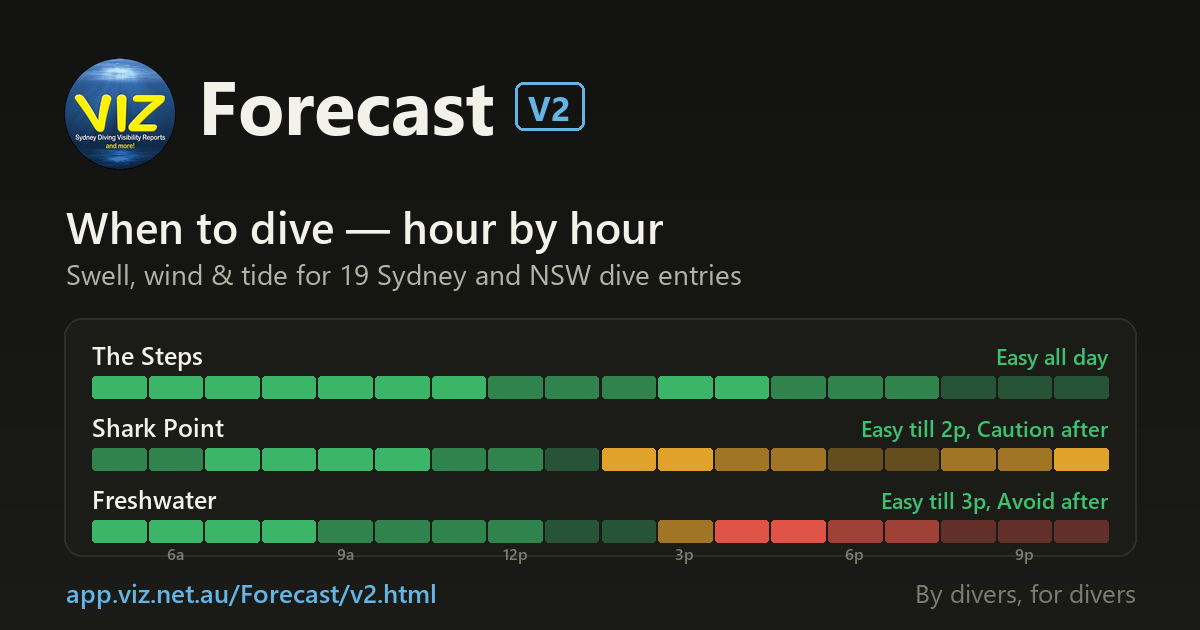
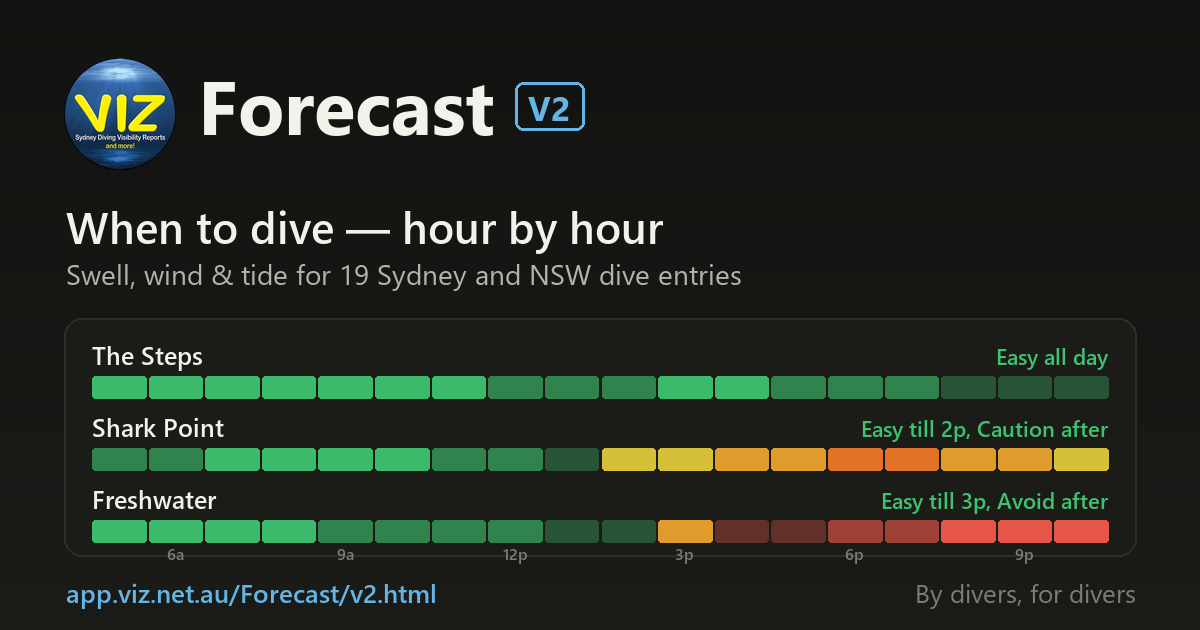
v2: one colour scale, bright green to bright red
Easy fades from vivid to dim green as it worsens, Caution shifts hue yellow ->
amber -> orange, Avoid builds from dim to vivid red: bright green at one end,
bright red at the other, on both themes. Legend follows (same classes). Preview
image redrawn to match; og:image carries ?v=2 so Facebook re-fetches it.

Changed region(s): [[0.4933, 0.6937, 0.925, 0.754], [0.5242, 0.8143, 0.7092, 0.8746], [0.7708, 0.8143, 0.925, 0.8746]]

diff --git a/v2.html b/v2.html
@@ -9,7 +9,7 @@
 <meta property="og:site_name" content="VIZ Forecast">
 <meta property="og:title" content="VIZ Forecast V2 — when to dive, hour by hour">
 <meta property="og:description" content="Hour-by-hour swell, wind and tide for 19 Sydney and NSW dive entries, with a live map of the coast. By divers, for divers.">
-<meta property="og:image" content="https://app.viz.net.au/Forecast/og-cover-v2.png">
+<meta property="og:image" content="https://app.viz.net.au/Forecast/og-cover-v2.png?v=2">
 <meta property="og:image:width" content="1200">
 <meta property="og:image:height" content="630">
 <meta property="og:image:type" content="image/png">
@@ -20,7 +20,7 @@
 <meta name="twitter:card" content="summary_large_image">
 <meta name="twitter:title" content="VIZ Forecast V2 — when to dive, hour by hour">
 <meta name="twitter:description" content="Hour-by-hour swell, wind and tide for 19 Sydney and NSW dive entries, with a live map of the coast. By divers, for divers.">
-<meta name="twitter:image" content="https://app.viz.net.au/Forecast/og-cover-v2.png">
+<meta name="twitter:image" content="https://app.viz.net.au/Forecast/og-cover-v2.png?v=2">
 <meta name="theme-color" content="#f7f7f5">
 <!-- Home-screen icon: the VIZ logo (same files as v1). Its own manifest so an installed
      shortcut opens v2, not v1. -->
@@ -174,19 +174,23 @@
   .cell{flex:1;border-radius:2px;background:var(--none);position:relative}
   .cell.easy{--cellc:var(--easy-cell)} .cell.caution{--cellc:var(--caution-cell)}
   .cell.avoid{--cellc:var(--avoid-cell)}
-  /* Three steps per band, wide apart: light = the safe end of the band, deep = the end
-     nearest the next band down. */
+  /* ONE SCALE, BRIGHT GREEN AT ONE END AND BRIGHT RED AT THE OTHER (owner, 7 Nov 2026).
+     s1 is the best end of a band, s3 the end nearest the next band down:
+       Easy     fades as it worsens:   vivid green -> dim green
+       Caution  shifts in hue:         yellow -> amber -> orange (toward red)
+       Avoid    builds as it worsens:  dim red -> vivid red
+     Caution sits between two dim ends, so brightness cannot carry its order; hue does.
+     Same on both themes. */
   .cell.easy,.cell.caution,.cell.avoid{background:color-mix(in srgb, var(--cellc) 62%, var(--surface))}
-  .cell.s1{background:color-mix(in srgb, var(--cellc) 34%, var(--surface))}
-  .cell.s2{background:color-mix(in srgb, var(--cellc) 62%, var(--surface))}
-  .cell.s3{background:color-mix(in srgb, var(--cellc) 92%, var(--surface))}
-  /* DARK THEME: BRIGHTER = BETTER (owner, 7 Nov 2026). Mixed into a dark surface, the
-     "pale" step comes out the darkest, so a vivid green read as the best Easy when it
-     was the worst. On dark the steps are swapped: s1, the best end of a band, is the
-     most vivid and s3, the end nearest the next band down, the dimmest. Light theme
-     already reads that way (pale on white = lighter = better), so it is unchanged. */
-  :root[data-theme="dark"] .cell.s1{background:color-mix(in srgb, var(--cellc) 92%, var(--surface))}
-  :root[data-theme="dark"] .cell.s3{background:color-mix(in srgb, var(--cellc) 34%, var(--surface))}
+  .cell.easy.s1{background:color-mix(in srgb, var(--easy-cell) 95%, var(--surface))}
+  .cell.easy.s2{background:color-mix(in srgb, var(--easy-cell) 62%, var(--surface))}
+  .cell.easy.s3{background:color-mix(in srgb, var(--easy-cell) 34%, var(--surface))}
+  .cell.caution.s1{background:color-mix(in srgb, #ead23c 90%, var(--surface))}
+  .cell.caution.s2{background:color-mix(in srgb, #f6a92f 90%, var(--surface))}
+  .cell.caution.s3{background:color-mix(in srgb, #f47a2b 92%, var(--surface))}
+  .cell.avoid.s1{background:color-mix(in srgb, var(--avoid-cell) 34%, var(--surface))}
+  .cell.avoid.s2{background:color-mix(in srgb, var(--avoid-cell) 62%, var(--surface))}
+  .cell.avoid.s3{background:color-mix(in srgb, var(--avoid-cell) 95%, var(--surface))}
   .day.past i,.day.past b{opacity:.45}
   .cell.now{outline:2px solid var(--ink);outline-offset:1px;z-index:1}
   /* the hour the map and stats are showing */
@@ -426,8 +430,8 @@ function bandName(b){ return b === "easy" ? "Easy" : b === "caution" ? "Caution"
    "easy" and looked identical, so a strip could not show a day getting worse until it
    crossed a cut (owner, 2 Nov: "you can't see where in the color is the score").
 
-   Three steps per band, and DEEPER ALWAYS MEANS WORSE across all nine, so the whole strip
-   reads as one severity gradient rather than three unrelated ramps. MAX is the top of the
+   Three steps per band, read as ONE scale from bright green (best) to bright red (worst);
+   the CSS on .cell.s1-s3 says how each band carries it. MAX is the top of the
    Worker's internal scale — display semantics, like EASY and CAUTION, not tuning. */
 var MAX = 60;
 function step(v){
